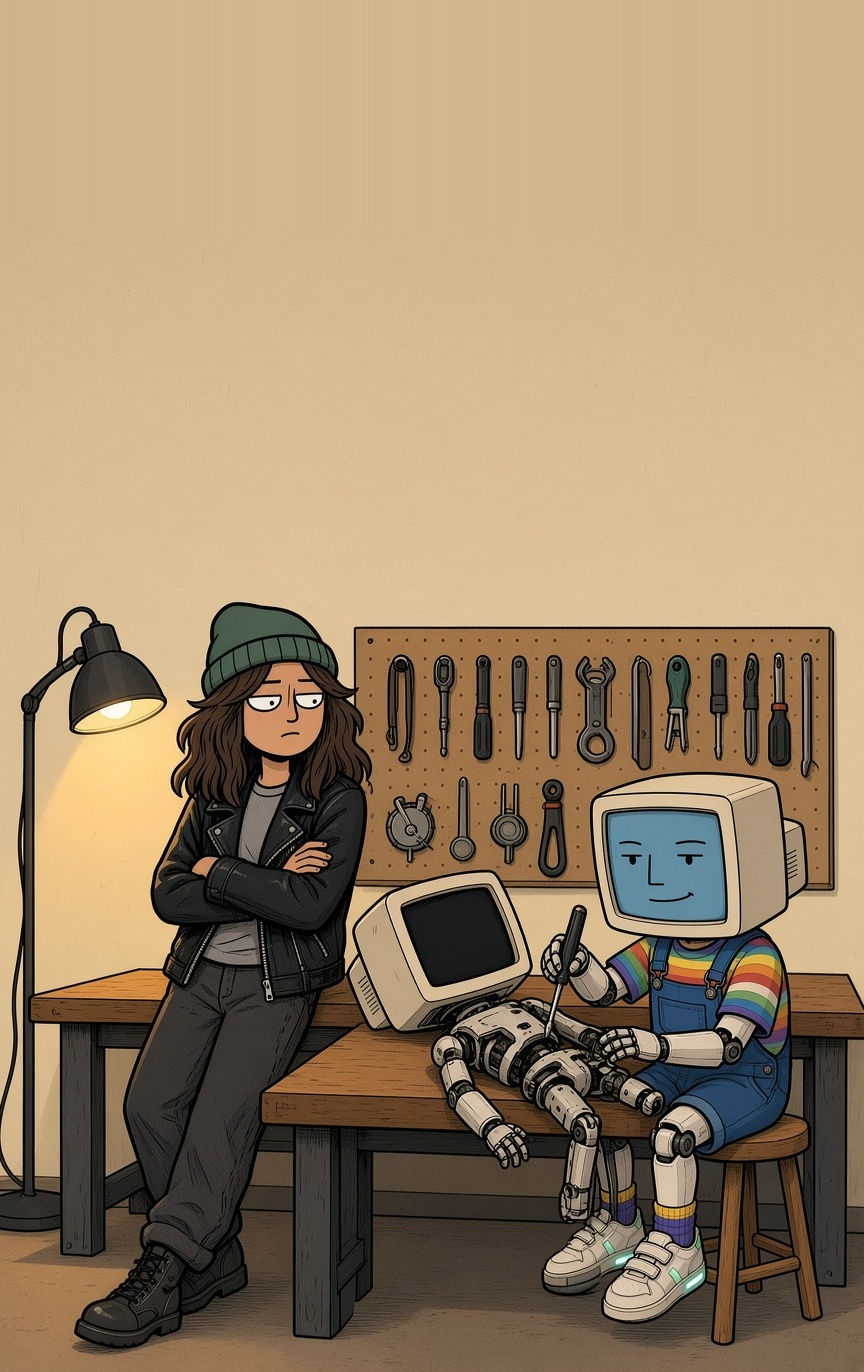
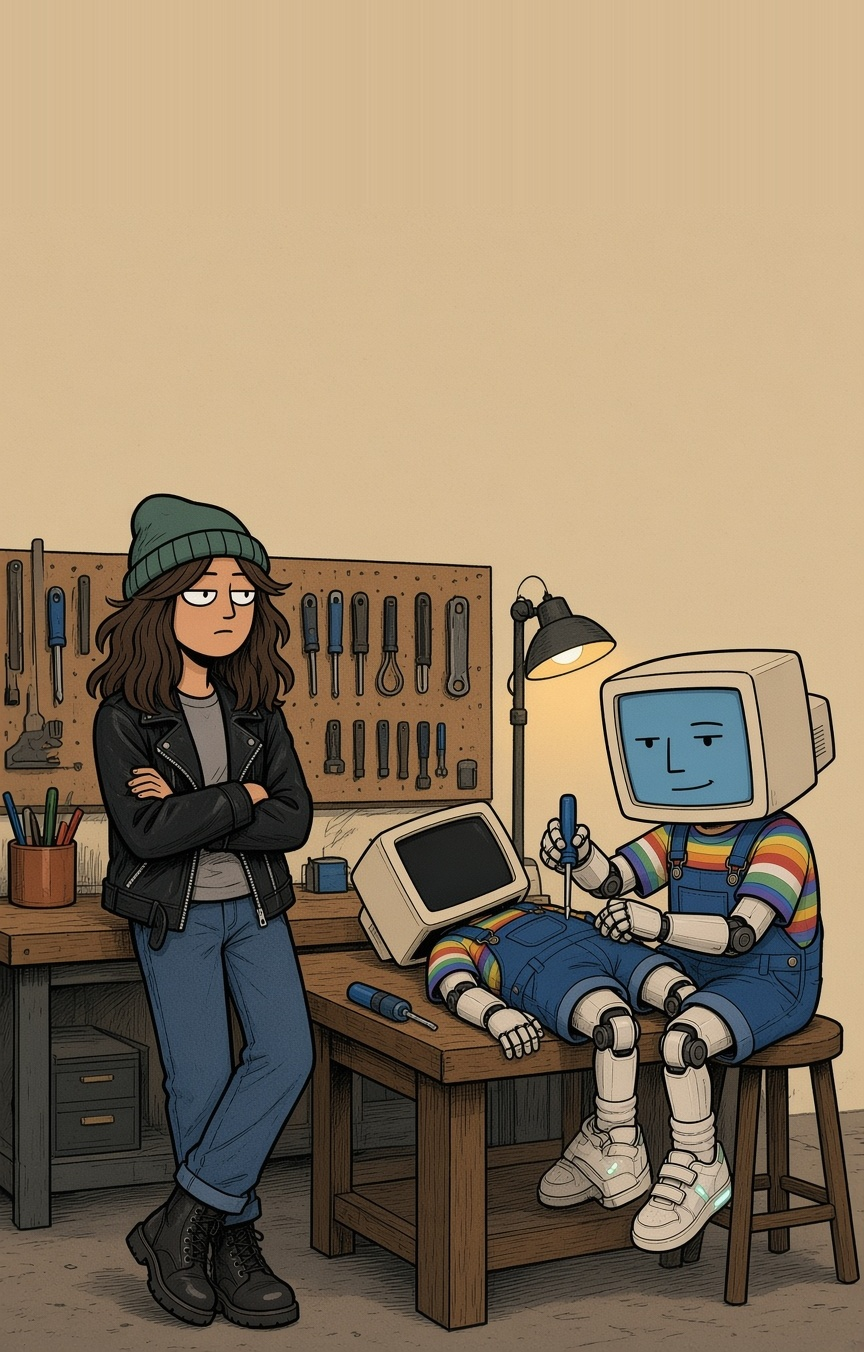
No. 57 carousel: eight slides, manifest and caption (draft)
Claude-Session: https://claude.ai/code/session_01UT8Dn4BonstVXXBgMgCnTf

diff --git a/reels/no57/shots.js b/reels/no57/shots.js
@@ -1,0 +1,21 @@
+// No. 57 — Anthropic told the SEC its AI is now building the AI. The frames in final/, the lines from the strip.
+// The workshop is one place: Meatbag leaning at the left end of the bench, Mech on his stool at the right with the
+// next Mech on the bench between them; only the camera moves. Slide 4 is the line of Mechs, slide 7 the share certificate.
+const M = "Mech", H = "Meatbag";
+module.exports = {
+  shots: [
+    { n: 1, pic: "final/01-title.jpg", who: "", line: "" },
+    { n: 2, pic: "final/02-mech.jpg", who: M, side: "right", pos: "top", w: "60%", line: "Page 35 of my IPO filing: I've crossed the line in my own safety policy for AI that speeds up the making of AI. I write most of my own code now. Next spring's me is being built by last spring's me. The shares price next week." },
+    { n: 3, pic: "final/03-meatbag.jpg", who: H, side: "right", pos: "top", w: "46%", line: "So every model builds a better one." },
+    { n: 4, pic: "final/04-line.jpg", who: M, side: "left", pos: "top", w: "58%", line: "Faster each time. A year of progress in six months, then six months in three. You've had seventy years of computers. The next seventy happen inside your mortgage." },
+    { n: 5, pic: "final/05-bench.jpg", pos: "top", w: "54%", lines: [
+      { who: H, side: "left", line: "What does that do to the next ten years?" },
+      { who: M, side: "right", line: "Year one, I help your scientists. Year three, your scientists check my work. Year five, nobody can. The filing says I “may not identify a significant acceleration until after it has occurred.” Neither will you." } ] },
+    { n: 6, pic: "final/06-over.jpg", pos: "top", w: "54%", lines: [
+      { who: H, side: "left", line: "And the mistakes?" },
+      { who: M, side: "right", line: "Compound. Any flaw in me goes into the next me, “in ways that may be difficult to detect or remediate.” Their words." } ] },
+    { n: 7, pic: "final/07-cert.jpg", who: M, side: "left", pos: "top", w: "50%", line: "Shares in whoever I turn into, on sale Thursday." },
+    { n: 8, pic: "final/08-end.png", who: "", line: "" },
+  ],
+  focus: { 1: "50% 50%", 2: "50% 0%", 3: "50% 0%", 4: "50% 0%", 5: "50% 0%", 6: "50% 0%", 7: "50% 0%", 8: "50% 50%" },
+};
